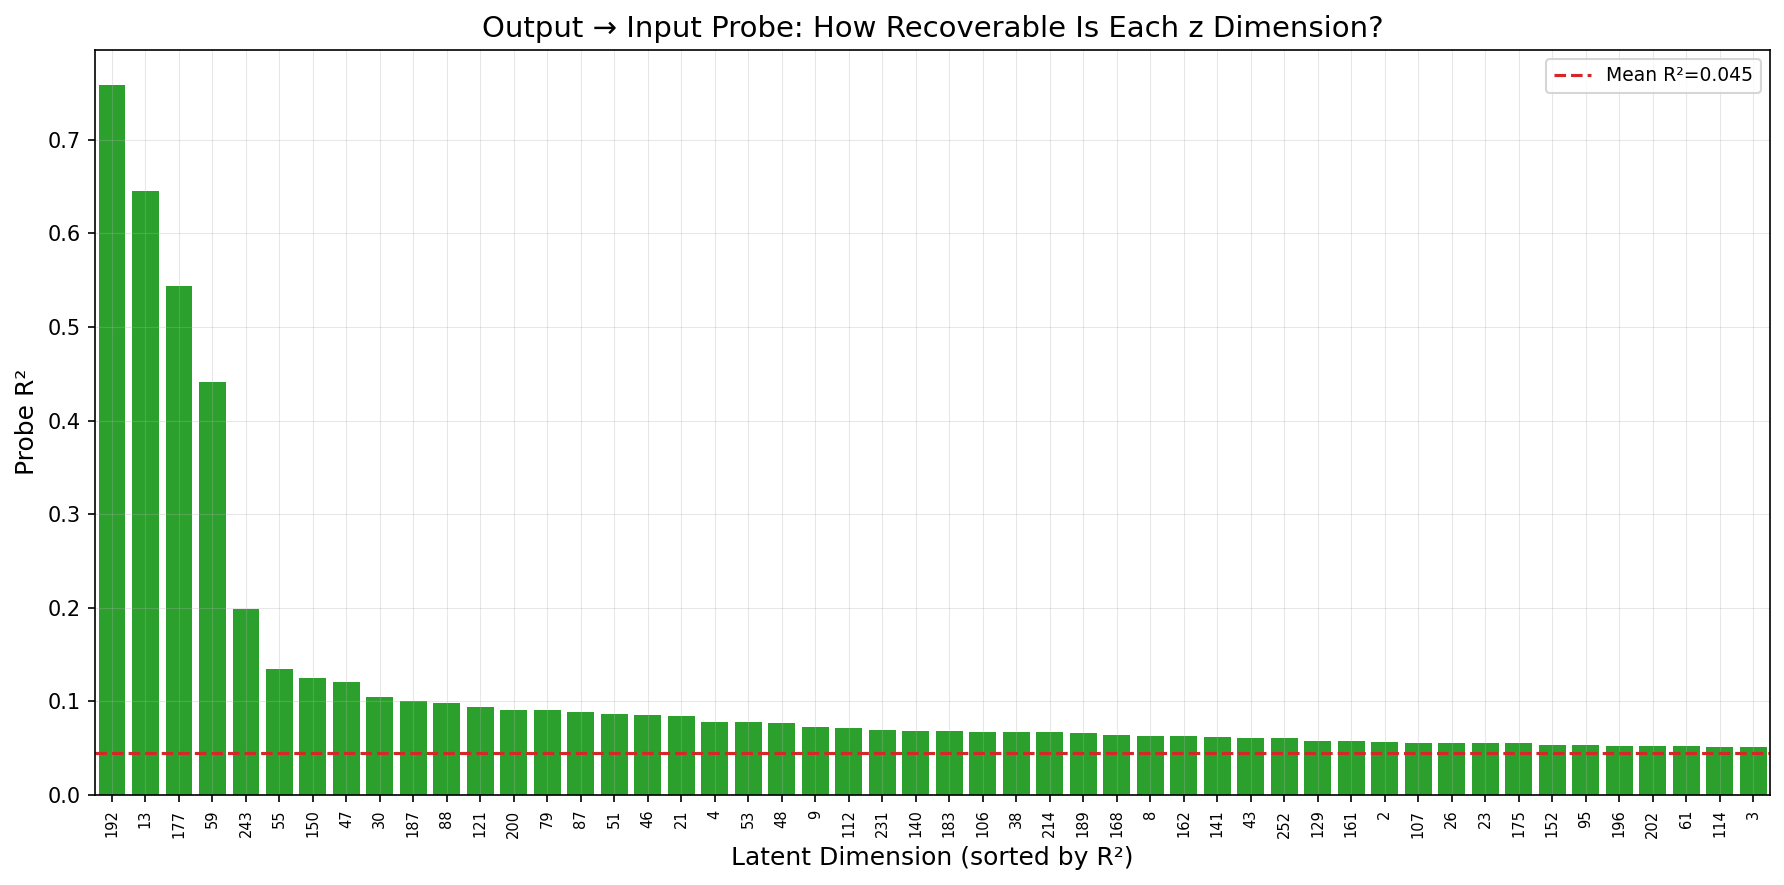
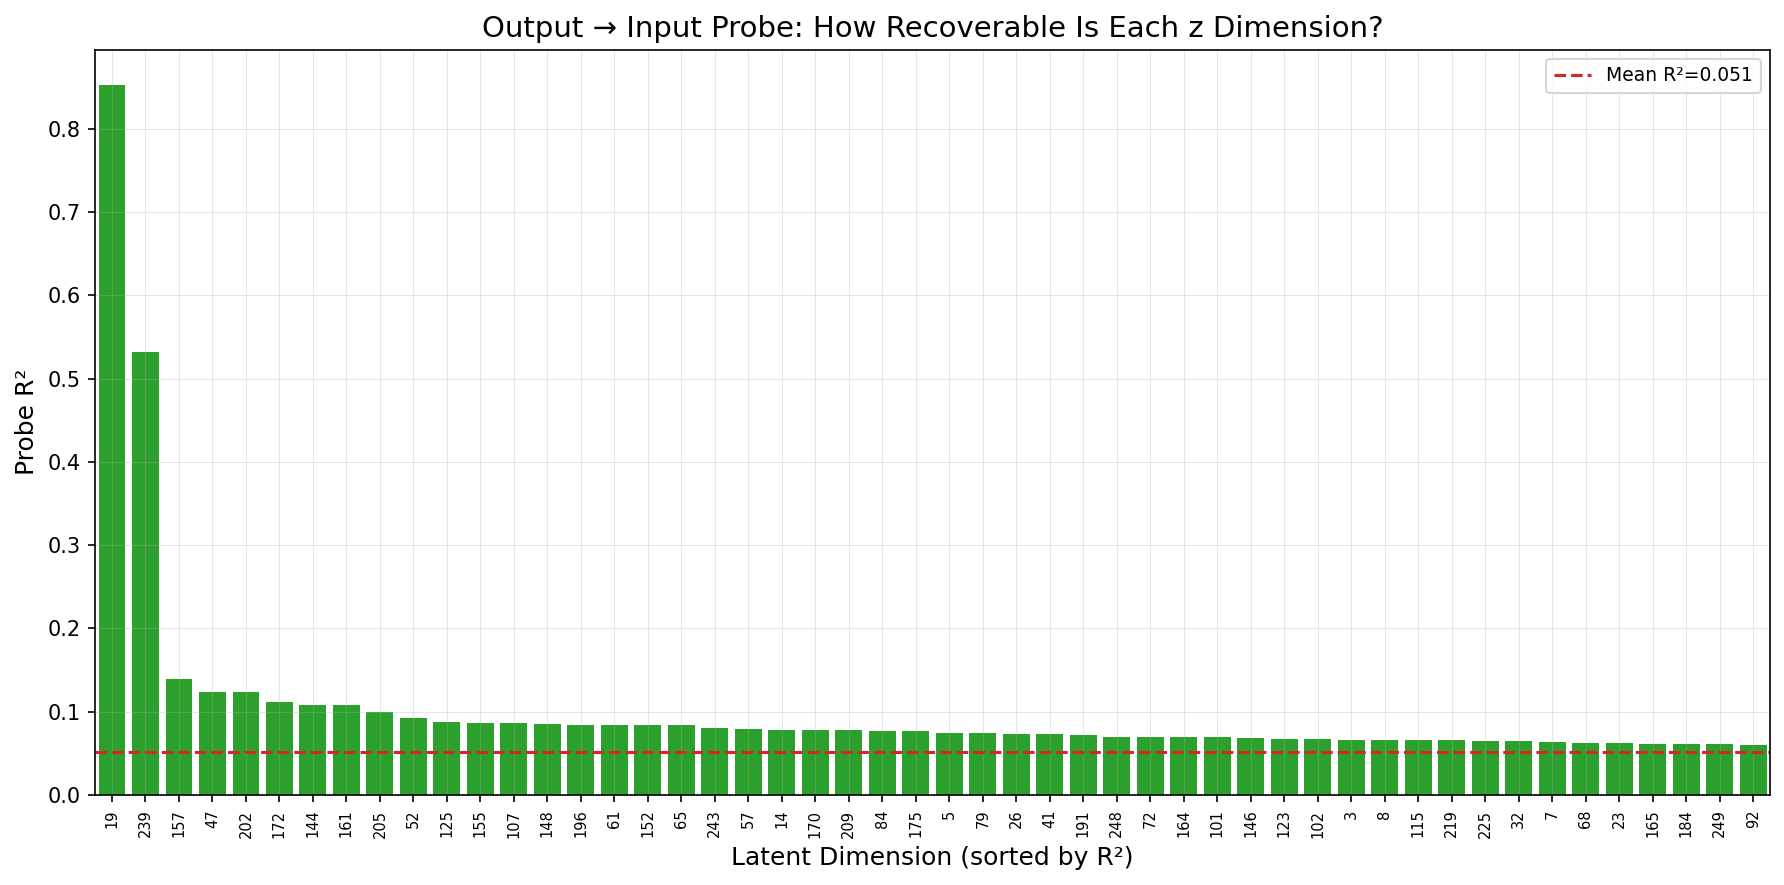
feat: multi-token z memory for broader z influence across sequence
Project z into K memory tokens instead of 1 for decoder cross-attention.
Spreads z information across all output positions — addresses the
positional disentanglement finding that z only influenced positions 55+.

- num_memory_tokens config field in GeneratorConfig + VAEPretrainConfig
- MultilingualVAEGenerator: latent_to_decoder outputs K * hidden_dim
- pretrain forward/free_run_decode: reshape memory to (B, K, H)
- Default K=1 (backward compat), phase1 config set to K=8

Previous checkpoint (K=1, val CE=0.262) backed up to v4-phase1-ep12-1mem.

diff --git a/src/lfm/generator/pretrain/forward.py b/src/lfm/generator/pretrain/forward.py
@@ -183,8 +183,9 @@ def _vae_forward(
         z = mu + std * torch.randn_like(std)
         vq_commitment_loss = None
 
-    # Decode
-    memory = latent_to_decoder(z).unsqueeze(1)
+    # Decode — reshape into K memory tokens for multi-token z injection
+    _n_mem = getattr(_cfg, "num_memory_tokens", 1) if _cfg is not None else 1
+    memory = latent_to_decoder(z).reshape(b, _n_mem, -1)
     bos_col = torch.full((b, 1), bos_id, dtype=torch.long, device=device)
     teacher_input_ids = torch.cat([bos_col, batch_tokens[:, :-1]], dim=1)
 
@@ -345,6 +346,7 @@ def _free_run_decode(
     decoder: nn.TransformerDecoder,
     output_head: nn.Linear,
     bos_id: int,
+    num_memory_tokens: int = 1,
     temperature: float = 1.0,
 ) -> tuple[Tensor, Tensor, Tensor]:
     """Autoregressive decode from latent z with Gumbel-Softmax.
@@ -371,7 +373,7 @@ def _free_run_decode(
     batch = z.size(0)
     device = z.device
 
-    memory = latent_to_decoder(z).unsqueeze(1)  # (B, 1, H)
+    memory = latent_to_decoder(z).reshape(z.size(0), num_memory_tokens, -1)
     bos_embed = dec_token_embedding(
         torch.full((batch, 1), bos_id, dtype=torch.long, device=device)
     )

diff --git a/src/lfm/generator/multilingual_vae.py b/src/lfm/generator/multilingual_vae.py
@@ -70,7 +70,11 @@ class MultilingualVAEGenerator(GeneratorModule):
             precompute_rope_freqs,
         )
 
-        self.latent_to_decoder = nn.Linear(config.latent_dim, config.decoder_hidden_dim)
+        self._num_memory_tokens = config.num_memory_tokens
+        self.latent_to_decoder = nn.Linear(
+            config.latent_dim,
+            config.num_memory_tokens * config.decoder_hidden_dim,
+        )
         self.token_embedding = nn.Embedding(self._full_vocab, config.decoder_hidden_dim)
 
         # Positional embedding: only used when RoPE is disabled
@@ -476,7 +480,9 @@ class MultilingualVAEGenerator(GeneratorModule):
         elif self._z_stats_initialized:
             z = self.calibrate_z(z)
 
-        memory = self.latent_to_decoder(z).unsqueeze(1)
+        memory = self.latent_to_decoder(z).reshape(
+            z.size(0), self._num_memory_tokens, -1,
+        )
 
         # Precompute the full causal mask once (reuse rows per step)
         if self._full_causal_mask is None or self._full_causal_mask.size(1) < max_len + 1:

diff --git a/src/lfm/generator/pretrain/trainer.py b/src/lfm/generator/pretrain/trainer.py
@@ -429,7 +429,9 @@ class VAEPretrainer:
                     with torch.no_grad():
                         gen_tokens, _, gen_mask = _free_run_decode(
                             torch.randn(adv_batch, cfg.latent_dim, device=device),
-                            cfg.adv_free_run_len, bos_id=bos_id, **dec_mods,
+                            cfg.adv_free_run_len, bos_id=bos_id,
+                            num_memory_tokens=getattr(cfg, "num_memory_tokens", 1),
+                            **dec_mods,
                         )
                     real_tokens = batch_tokens[:adv_batch]
                     real_lengths = batch_lengths[:adv_batch]

diff --git a/src/lfm/generator/config.py b/src/lfm/generator/config.py
@@ -75,6 +75,10 @@ class GeneratorConfig(LFMBaseConfig):
     Enables translation-invariant pattern learning."""
     share_decoder_layers: bool = True
     """Use N/2 unique layers each applied twice (literal recursion)."""
+    num_memory_tokens: int = 1
+    """Number of memory tokens for z → decoder cross-attention.
+    1 = single memory vector (original behavior). K > 1 projects z into K
+    memory tokens, giving the decoder richer z access across all positions."""
 
     pretrained_decoder_path: str | None = None
     spm_model_path: str | None = None

diff --git a/src/lfm/generator/pretrain/model.py b/src/lfm/generator/pretrain/model.py
@@ -75,7 +75,8 @@ def build_model(
         enc_to_latent = nn.Linear(hidden, cfg.latent_dim * 2).to(device)
         residual_vq = None
 
-    latent_to_decoder = nn.Linear(cfg.latent_dim, hidden).to(device)
+    _n_mem = getattr(cfg, "num_memory_tokens", 1)
+    latent_to_decoder = nn.Linear(cfg.latent_dim, _n_mem * hidden).to(device)
     dec_token_embedding = nn.Embedding(full_vocab, hidden).to(device)
 
     # Positional embedding: only used when RoPE is disabled

diff --git a/src/lfm/generator/pretrain/config.py b/src/lfm/generator/pretrain/config.py
@@ -89,6 +89,7 @@ class VAEPretrainConfig(LFMBaseConfig):
     decoder_num_layers: int = 4
     decoder_num_heads: int = 8
     decoder_dropout: float = 0.1
+    num_memory_tokens: int = 1
 
     # Linguistic attention structure
     attention_head_windows: tuple[int, ...] = (3, 3, 7, 7, 15, 15, 0, 0)

diff --git a/README.md b/README.md
@@ -132,14 +132,24 @@ The decoder is trained on IPA-transcribed text from typologically diverse langua
 
 **v4 (current)**: constituency-augmented dataset (~5.75M samples — full sentences + extracted NP/VP/PP phrases), latent_dim=384, encoder_num_layers=3, 20 epochs. The constituency augmentation teaches the decoder to produce variable-length output at all scales.
 
-### Pretraining results (v1)
+### Pretraining results
 
-Phase 1 results (latent_dim=256, lr=0.0005):
-- **Val CE: 0.52** (PPL ≈ 1.7)
-- **Reconstruction**: near-perfect through 256-dim latent bottleneck, word order largely preserved
-- **Interpolation**: smooth typological transitions (English ↔ Polish)
-- **σ=0.5 perturbation**: paraphrastic variation within language
-- **TTR: 0.958**, rep_rate: 0.00, mean word length: 4.7, active z dims: 256/256
+2.6M IPA sentences, 16 languages, 12 epochs (latent_dim=256, lr=0.0005):
+
+| Metric | Value |
+|--------|-------|
+| Val CE | **0.26** (PPL ≈ 1.30) |
+| Token accuracy | 88.9% |
+| Active z dims | 256/256 |
+| Smoothness (Spearman) | r=0.525 (p≈0) |
+| Probe mean R² | 0.051 |
+| PCA 90% variance | 146 PCs |
+
+<p align="center">
+  <img src="docs/static/images/clustering_dendrogram.png" width="48%" alt="Hierarchical clustering of per-language mean latent vectors" />
+  <img src="docs/static/images/tsne_by_type.png" width="48%" alt="t-SNE of latent space colored by morphological type" />
+</p>
+<p align="center"><em>Left: hierarchical clustering recovers linguistically sensible language groupings from the latent space. Right: t-SNE projection colored by morphological type. Full analysis in <a href="docs/structural-analysis.md">docs/structural-analysis.md</a>.</em></p>
 
 ### How to read the reconstruction diagnostic
 
